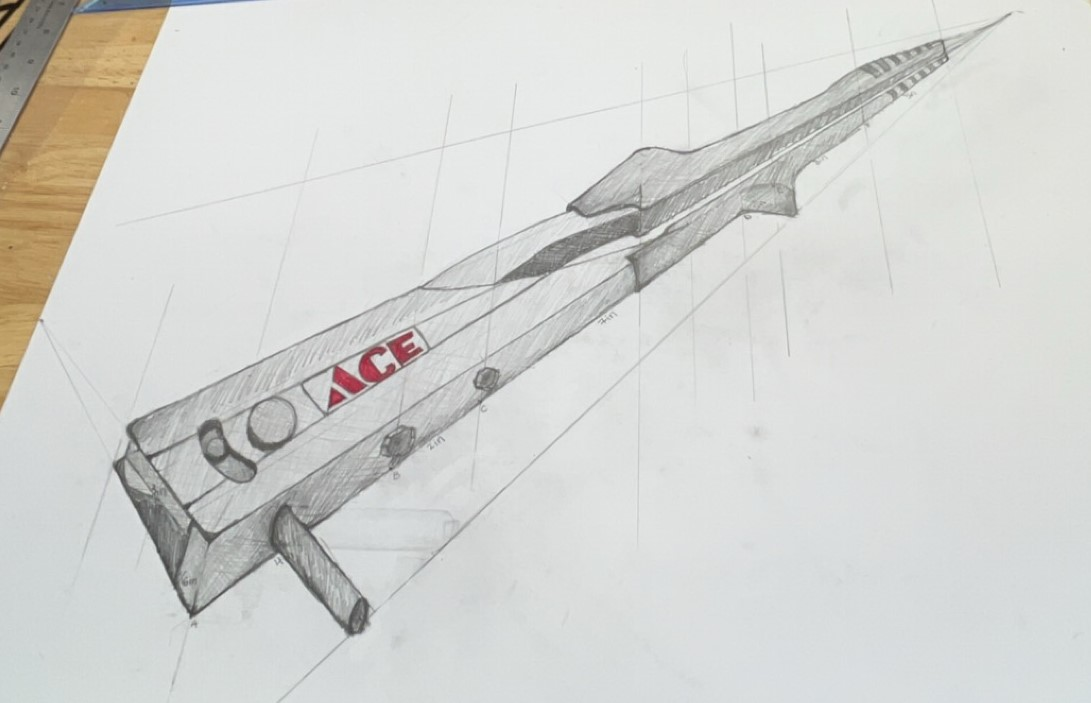
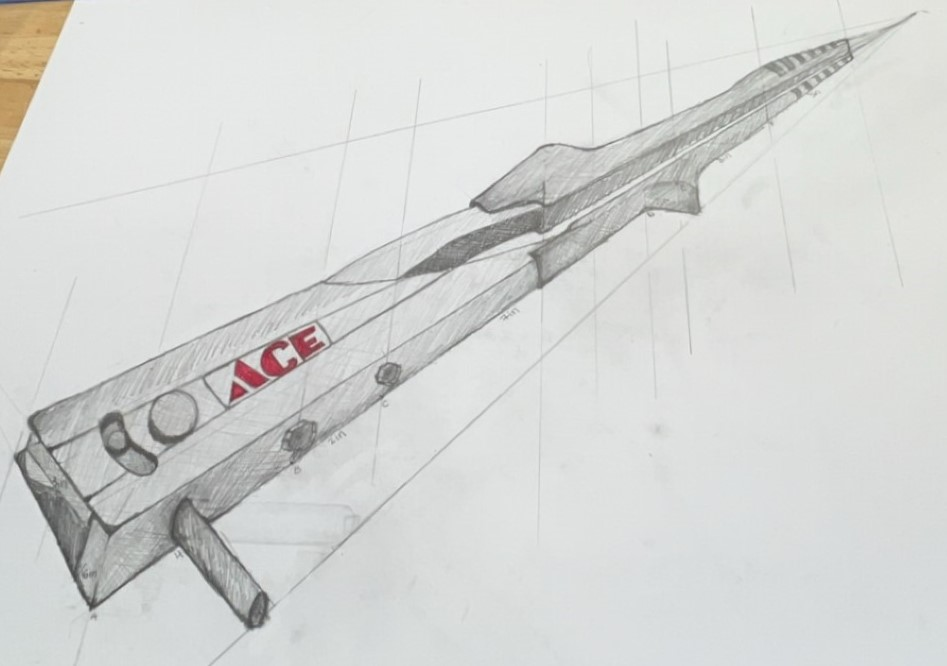
removed desk background with generative fill in photoshop

diff --git a/index.html b/index.html
@@ -277,7 +277,7 @@
             <img src="jansensamantha_pers.jpg">
         </div>
 				<div class="media">
-            <img src="jiangaliviayuanyuan_pers.JPG">
+            <img src="jiangaliviayuanyuan_pers.png">
         </div>
 				<div class="media">
             <img src="houserabigail_pers.jpg">
